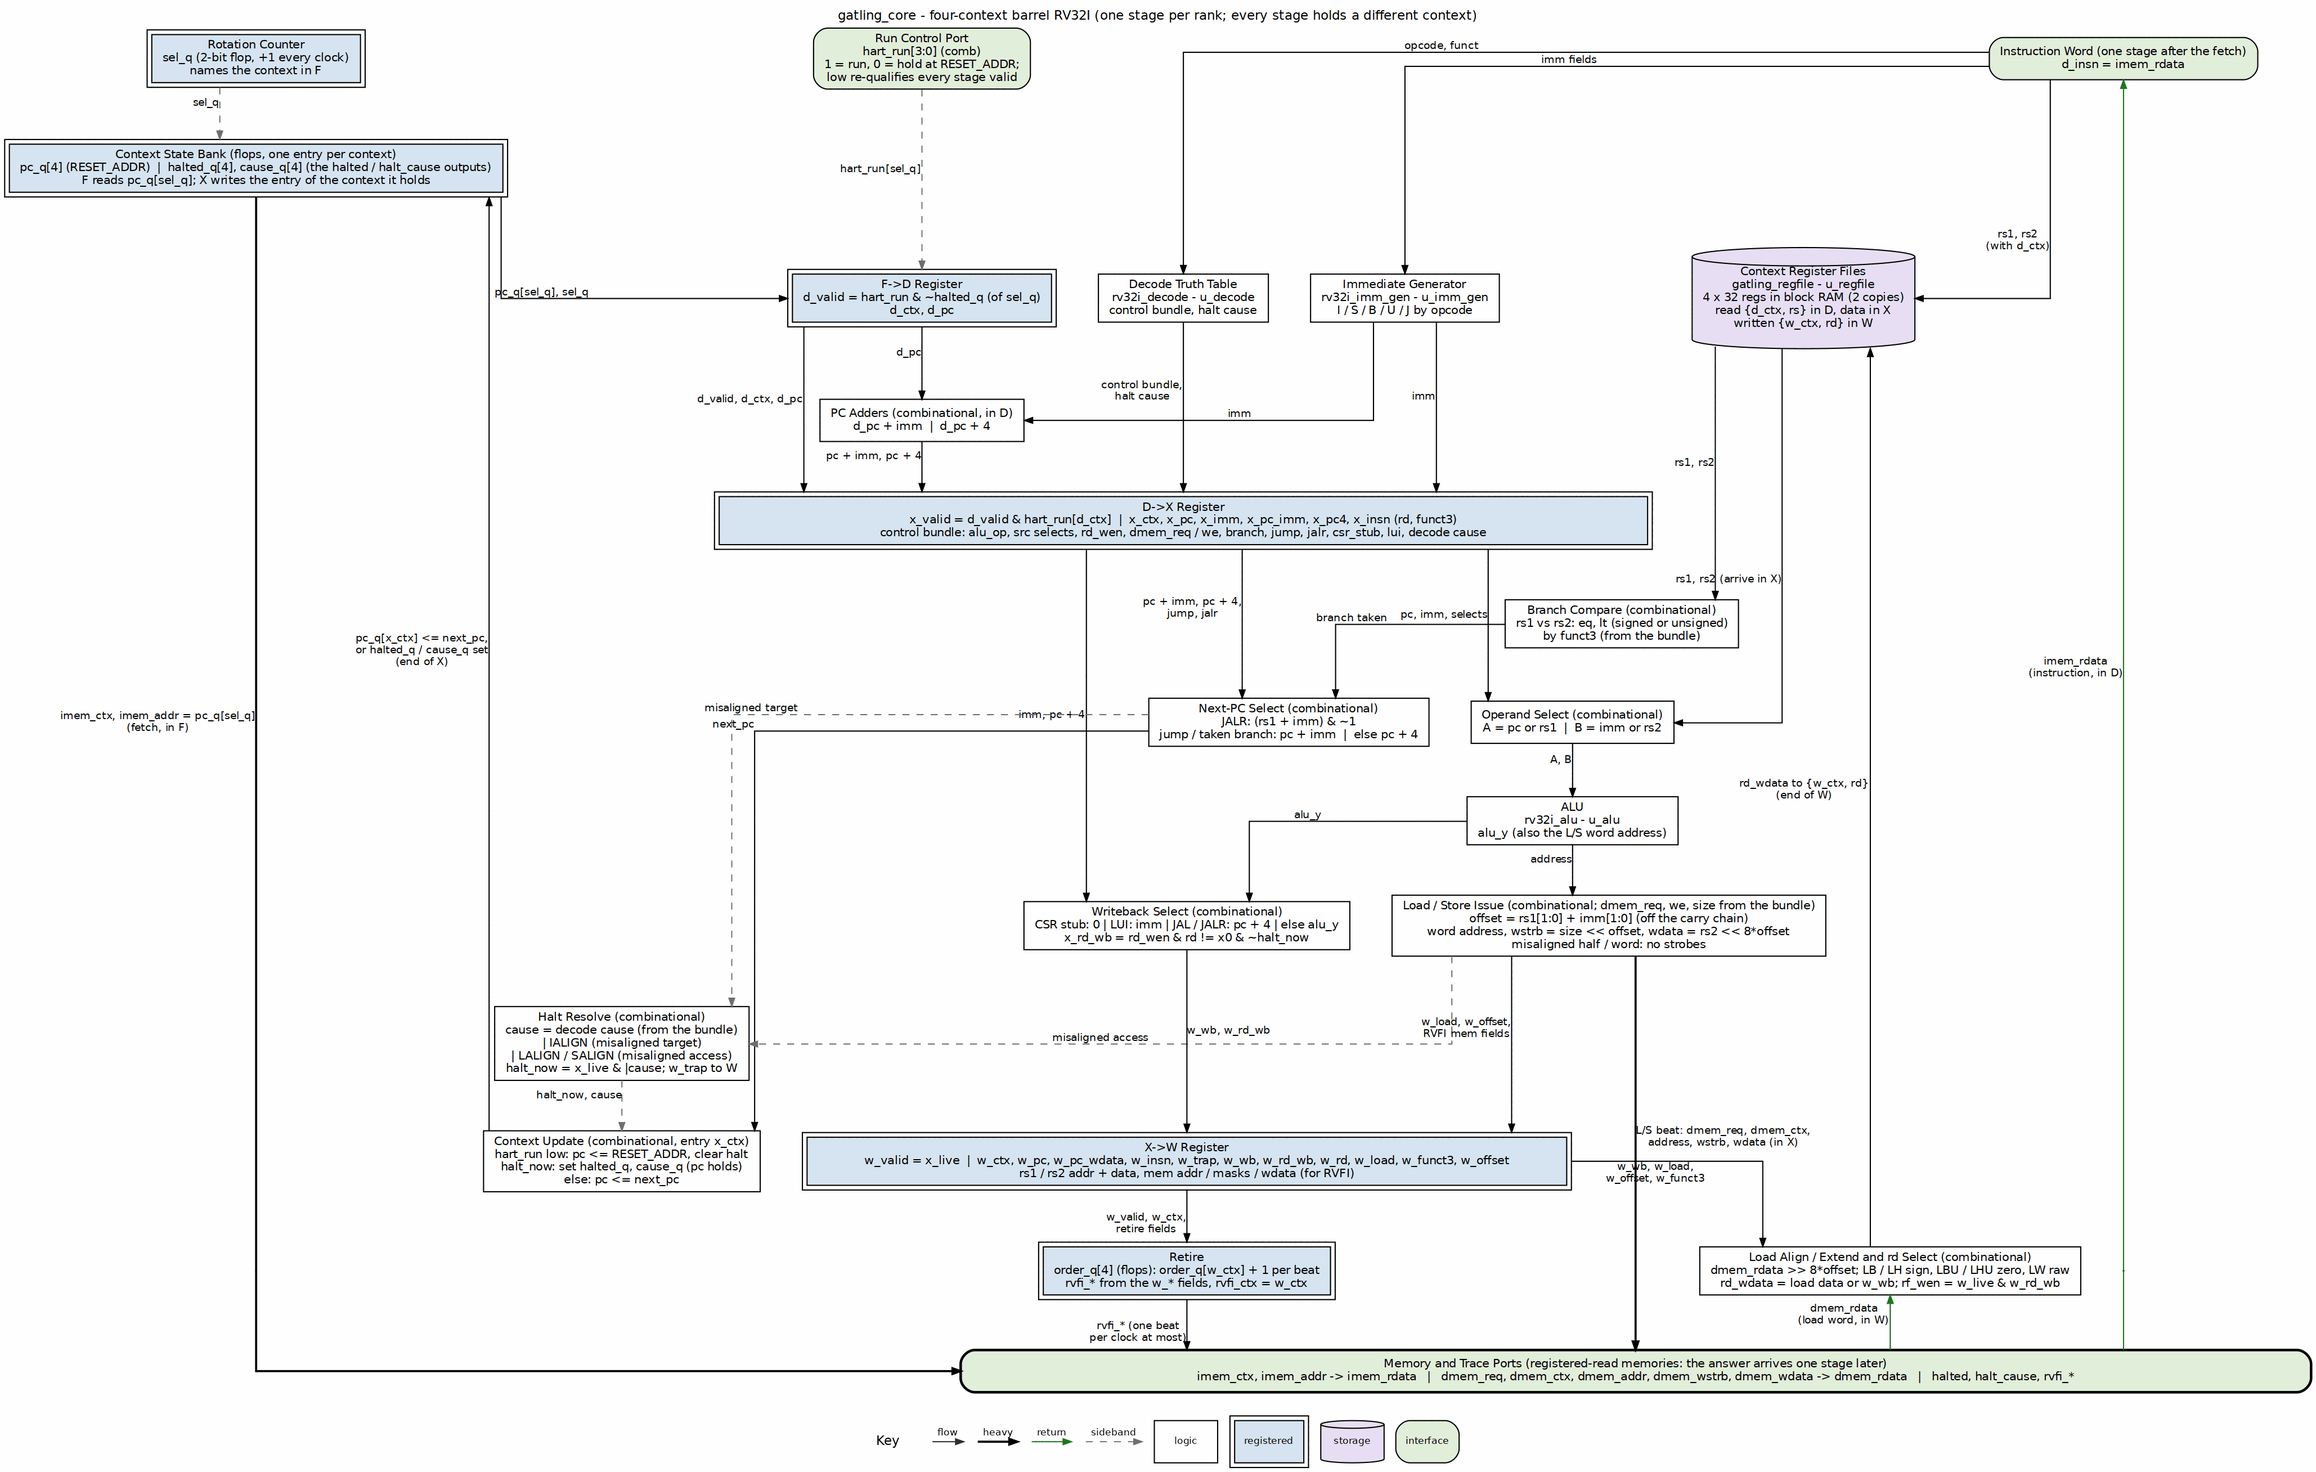
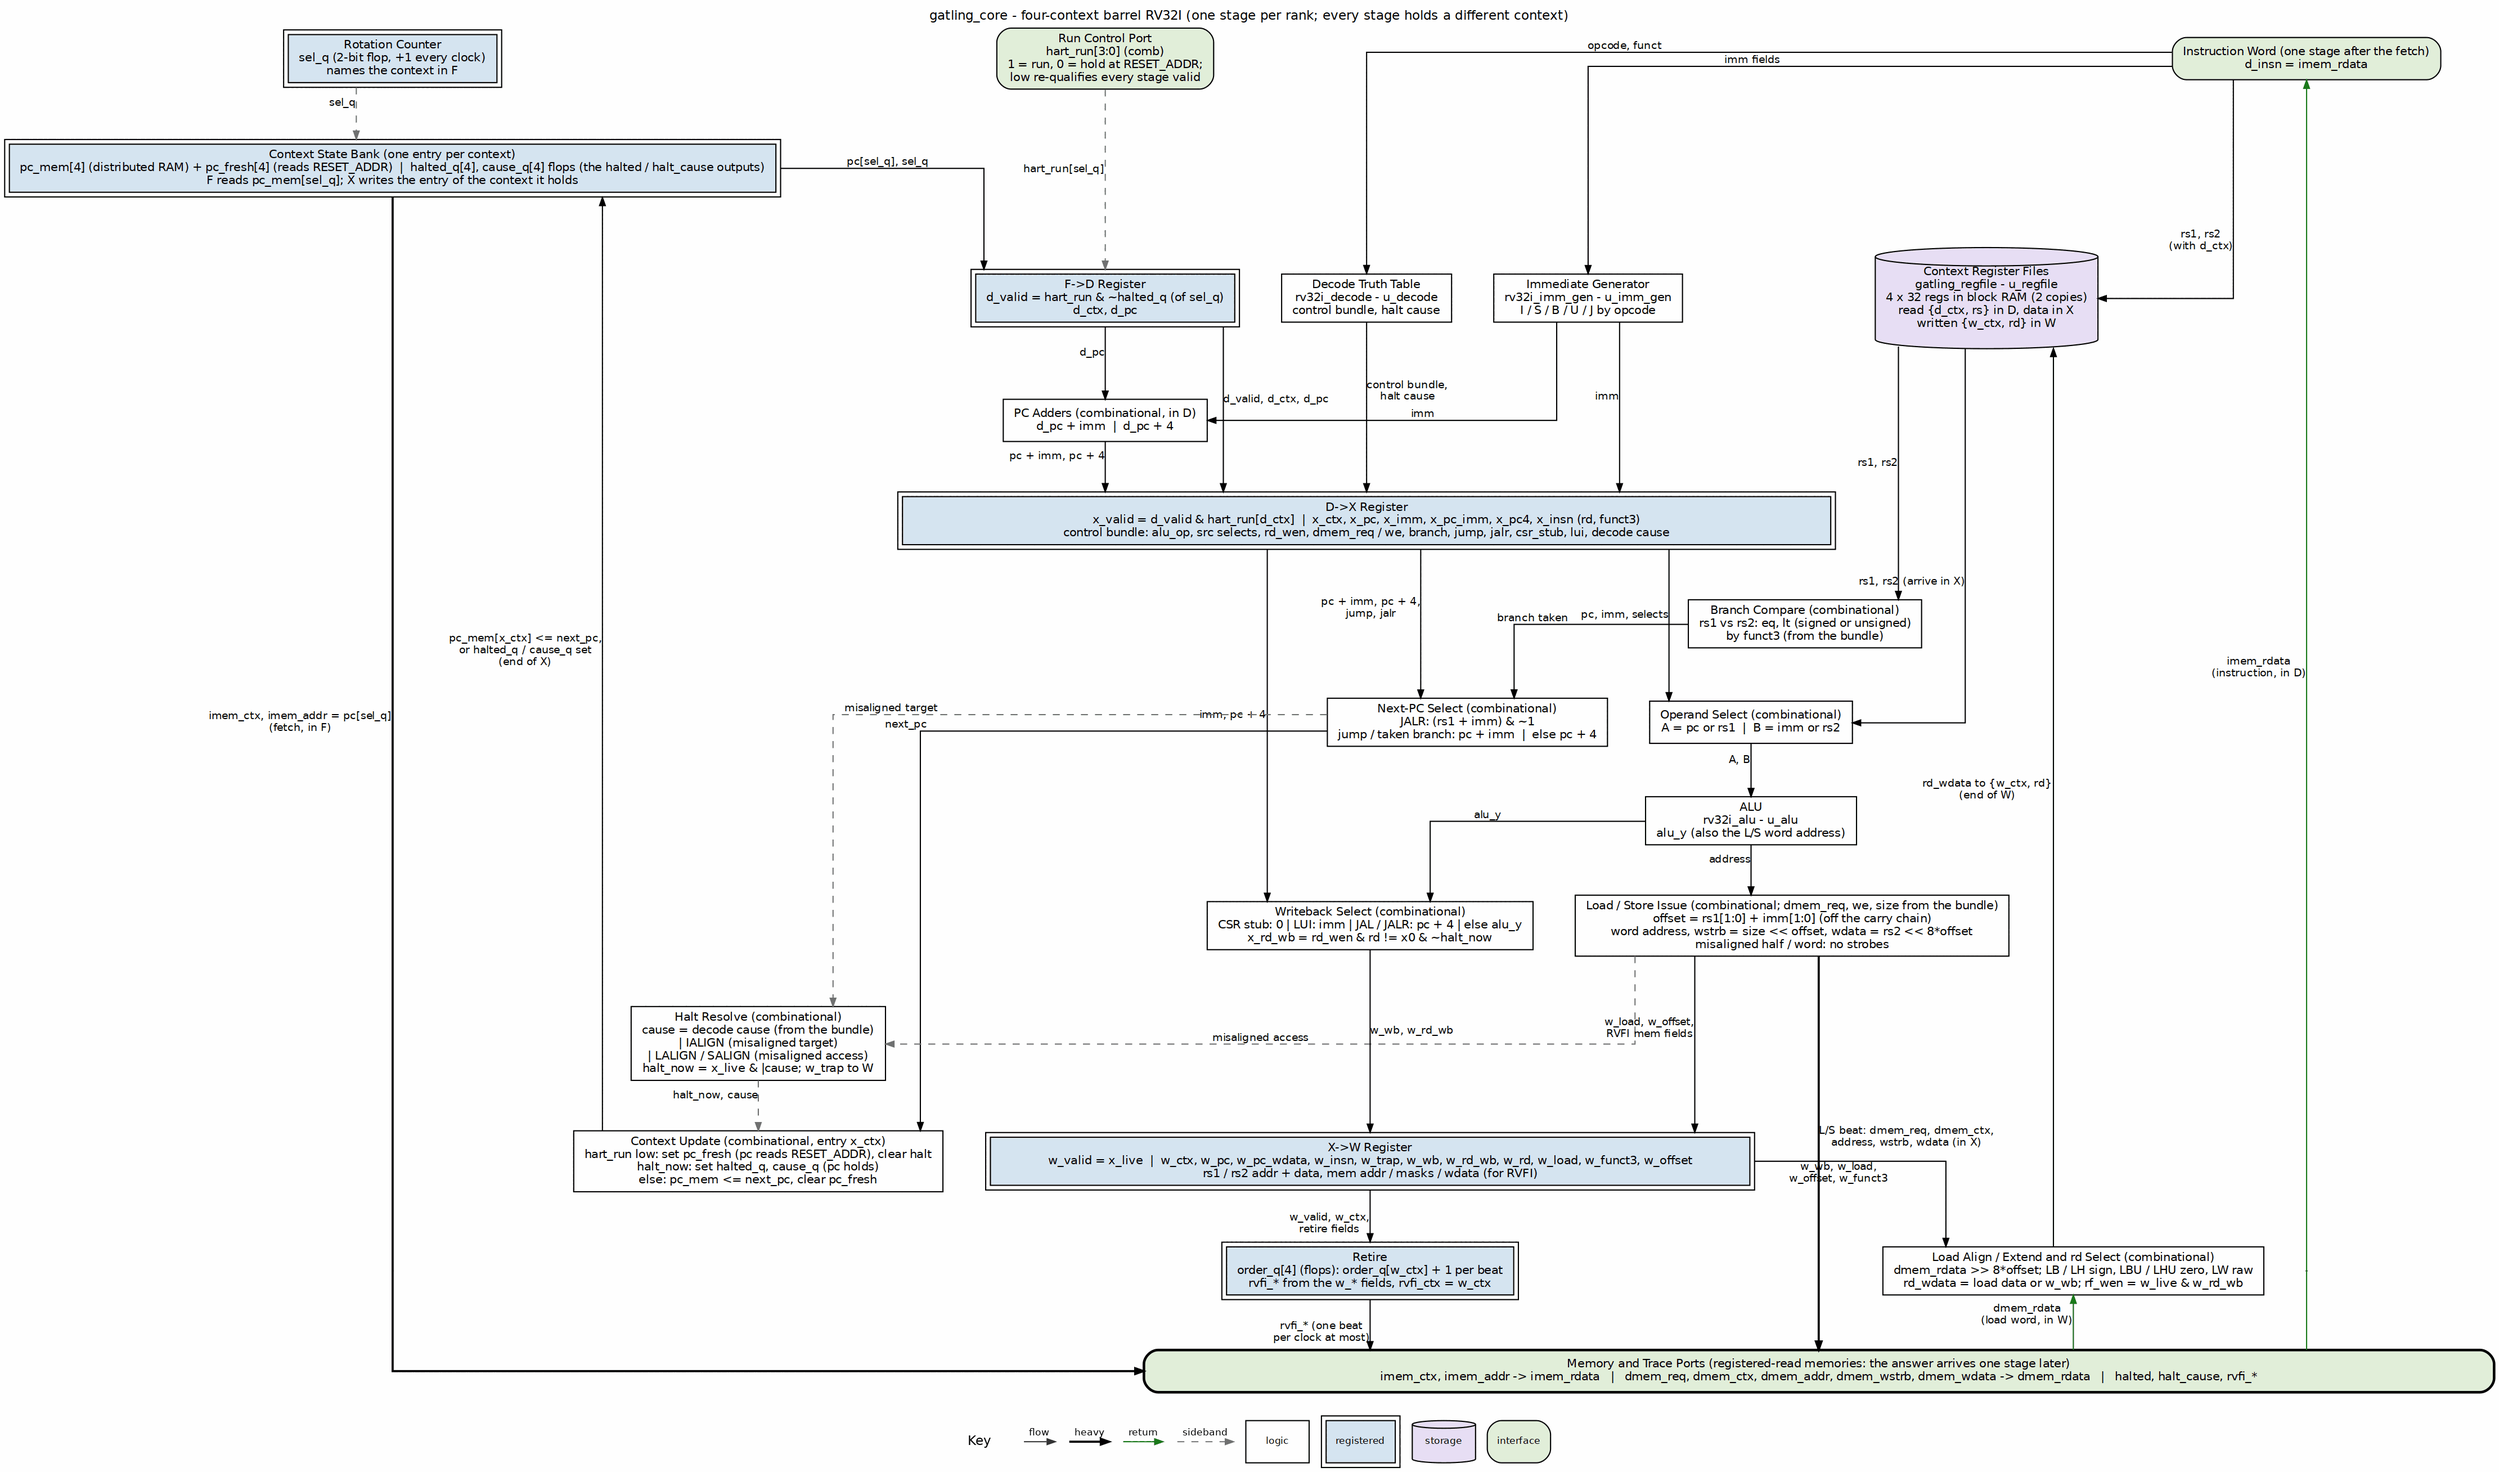
perf(riscv-ip): gatling keeps its per-context PC file in distributed RAM -- the 4 x 32 pc_q flop array (async reset, per-context loop write, mux read) becomes pc_mem, written in X at x_ctx and read in F at sel_q, with a 4-bit pc_fresh flag standing in for reset and the hart_run hold (reads RESET_ADD

diff --git a/projects/components/dma-ip/rapids/dv/tests/top_g/test_rapids_g_restart.py b/projects/components/dma-ip/rapids/dv/tests/top_g/test_rapids_g_restart.py
@@ -56,11 +56,20 @@ async def _pulse_and_trace(tb, dut):
     dut.seq_restart.value = 1
     await tb.wait_clocks(tb.clk_name, 1)
     dut.seq_restart.value = 0
+    # The PC file is a distributed RAM (common-rv32i ISSUE-001 row 4), so the
+    # per-hart PC vector is rebuilt from the fetch port: each cycle the
+    # context in F (sel_q) presents its PC on imem_addr.
     trace = []
+    pcs = {h: {} for h in ('src', 'snk')}
     for _ in range(TRACE):
         await tb.wait_clocks(tb.clk_name, 1)
-        trace.append(tuple((int(_gatling(dut, h).sel_q.value), int(_gatling(dut, h).pc_q.value))
-                           for h in ('src', 'snk')))
+        row = []
+        for h in ('src', 'snk'):
+            g = _gatling(dut, h)
+            sel = int(g.sel_q.value)
+            pcs[h][sel] = int(g.imem_addr.value)
+            row.append((sel, tuple(sorted(pcs[h].items()))))
+        trace.append(tuple(row))
     return trace
 
 

diff --git a/vault/tracking/projects/components/riscv-ip/gatling-rv32i/task/closed/TASK-004.md b/vault/tracking/projects/components/riscv-ip/gatling-rv32i/task/closed/TASK-004.md
@@ -1,0 +1,60 @@
+# TASK-004: FPGA rework -- the per-context PC file in distributed RAM
+
+**Priority:** P2
+**Status:** CLOSED (2026-11-19)
+**Owner:** Claude (owner, 2026-11-19: "do row 4")
+**From:** riscv-ip common-rv32i [ISSUE-001](../../../common-rv32i/issue/open/ISSUE-001.md) row 4
+
+## What landed
+
+1. **`pc_q[NUM_HARTS]` (128 async-reset flops, loop write, mux read) is now
+   `pc_mem[NUM_HARTS]`, a distributed RAM.** It has one write port (X, at
+   `x_ctx`) and one asynchronous read port (F, at `sel_q`). The rotation
+   keeps the two on different contexts.
+2. **`pc_fresh[c]` stands in for the reset that a RAM cannot have.**
+   - Reset sets it, and so does `hart_run[c]` low.
+   - The context's first PC write clears it.
+   - While it is set, F reads `RESET_ADDR`.
+   - A halt writes no PC and leaves the flag alone, so a context that halts
+     on its first instruction after release still reads that instruction's
+     address. That matches the old flop array cycle for cycle.
+3. **`halted_q` and `cause_q` stay flops.** The `halted` and `halt_cause`
+   ports present every context at once, which would need NUM_HARTS read
+   ports. The issue row's "cause / halt" part is closed on that reason:
+   it is 20 flops.
+4. **One test changed outside the area.**
+   `dma-ip/rapids/dv/tests/top_g/test_rapids_g_restart.py` probed `pc_q`
+   to compare the harts' timing after two restarts. It now rebuilds the
+   per-hart PC vector from the fetch port (`sel_q`, `imem_addr`), which
+   carries the same information one stage later.
+5. **The gatling MAS** (ch02 core chapter, the datapath and rotation-grid
+   diagrams, re-rendered) names the PC file and the flag.
+
+## Gates
+
+- gatling suite: `make clean-all && make run-all-full-parallel`, 42/42.
+- riscv-formal gatling: 42/42. The RAM starts unconstrained in formal; `pc_fresh` masks it until the first write.
+- rapids `fub_g macro_g top_g` (the gatling sequencer and the restart
+  test), `make clean-all && make run-all-full-parallel AREAS="fub_g macro_g
+  top_g"`: 192 + 270 + 183 passed, all three restart cells included.
+
+## Result
+
+Routed OOC, xc7a100t-1, 10 ns. One synthesis, three placer directives.
+The base is HEAD 8e14d4198 (row 1 in).
+
+| gatling_core | Slice LUT (of which LUTRAM) | FF (FDCE) | WNS Default / ExtraNetDelay_high / SpreadLogic_high |
+|---|---|---|---|
+| before | 1,308 (0) | 894 (409) | +0.190 / +0.470 / +0.196 |
+| after | 1,200 (22) | 772 (281) | +0.424 / +0.506 / +0.660 |
+
+- **Area:** 130 fewer logic LUTs, offset by 22 LUTRAM (34 RAMD32 + 10
+  RAMS32), and 122 fewer flops. The issue estimated about 11 LUTRAM. Vivado
+  builds the 4 x 32 RAM from RAM32M-class primitives, two bits per site
+  pair, hence 22.
+- **Timing:** the worst case moves from +0.190 to +0.424. The critical cone
+  is the same before and after: register file read -> branch compare /
+  misaligned target -> `halt_now` -> the context-state write enables. What
+  changed is the end of the cone. Before, it was the per-context clock
+  enables of 128 PC flops (`pc_q_reg[1][17]/CE`). Now it is the RAM's
+  write enable (`pc_mem_reg_*/RAMA/WE`) or a `cause_q` enable.

diff --git a/vault/tracking/projects/components/riscv-ip/common-rv32i/issue/open/ISSUE-001.md b/vault/tracking/projects/components/riscv-ip/common-rv32i/issue/open/ISSUE-001.md
@@ -29,7 +29,7 @@ reproducing script.
 | 1 | common-rv32i | ALU builds three barrel shifters and a second 33-bit compare | variant measured: -306 / -205 / -231 LUT (kestrel / merlin / gatling), kestrel WNS +0.85 ns; 2,001,280-vector equivalence, 0 mismatches | done: common-rv32i [TASK-001](../../task/closed/TASK-001.md), suites + riscv-formal green |
 | 2 | merlin | pipeline registers reset and flush the whole payload | FDCE 811 -> 134; x0-init and load-use reads fixed; suite 54/54, riscv-formal 42/42 | done: merlin-rv32i [TASK-003](../../../merlin-rv32i/task/closed/TASK-003.md) |
 | 3 | merlin | forwarding compare -> branch -> redirect / flush fan-out is the critical path (11-15 levels) | (a) done with row 2 in merlin-rv32i TASK-003: 1,378 -> 1,262 LUT, WNS over 3 placer directives -0.216..+0.227 -> +0.065..+0.241; path now load data -> forward -> branch | (a) done; (b) register the redirect = owner decision |
-| 4 | gatling | per-context PC / cause / halt in async-reset flops with loop write and mux read | estimated 128 FF + mux -> ~11 LUTRAM; not measured | open |
+| 4 | gatling | per-context PC / cause / halt in async-reset flops with loop write and mux read | PC file -> 22 LUTRAM: 1,308 -> 1,200 LUT, 894 -> 772 FF, WNS over 3 placer directives +0.190..+0.470 -> +0.424..+0.660; cause / halt stay flops (the ports show every context at once) | done: gatling-rv32i [TASK-004](../../../gatling-rv32i/task/closed/TASK-004.md) |
 | 5 | all | RVFI-only state (gatling order_q 256 FF, merlin ~256 carried FF, kestrel retire_count) | trimmed on the board; costs only where RVFI is consumed | no-action |
 | 6 | kestrel/gatling mem | gaxi_skid_buffer W channel 2-4 LUT per flop | shared rtl/amba IP; memory systems have 3-3.7 ns slack | no-action here |
 | 7 | kestrel | board runs 75 MHz (single-cycle by design) | row 1 may lift it; needs a board build | open, after row 1 |

diff --git a/projects/components/riscv-ip/gatling-rv32i/docs/gatling_mas/ch02_blocks/01_gatling_core.md b/projects/components/riscv-ip/gatling-rv32i/docs/gatling_mas/ch02_blocks/01_gatling_core.md
@@ -60,7 +60,9 @@ PC+imm and PC+4 are formed in D because both operands are known there, which kee
 
 ## Per-context state
 
-`pc_q[c]`, `halted_q[c]`, `cause_q[c]` and `order_q[c]` are the only per-context state besides the register file. `hart_run[c]` low wins every update: the PC returns to RESET_ADDR and the halt and order clear. Otherwise the X stage updates the context it holds -- its PC to the next PC, or, if the instruction halts, its halt bit and cause (the PC is not advanced, as kestrel).
+The PC file `pc_mem[c]`, with its flag `pc_fresh[c]`, and `halted_q[c]`, `cause_q[c]` and `order_q[c]` are the only per-context state besides the register file. `hart_run[c]` low wins every update: the PC returns to RESET_ADDR and the halt and order clear. Otherwise the X stage updates the context it holds -- its PC to the next PC, or, if the instruction halts, its halt bit and cause (the PC is not advanced, as kestrel).
+
+The PC file is a NUM_HARTS x 32 distributed RAM: X writes it at `x_ctx` and F reads it asynchronously at `sel_q`. The rotation keeps those on different contexts. A RAM has no reset, so `pc_fresh[c]` does that job. Reset sets it, and so does `hart_run[c]` low. The context's first PC write clears it, and while it is set F reads RESET_ADDR. A halt writes no PC and leaves the flag alone, so a context that halts on its first instruction still shows that instruction's address. `halted_q` and `cause_q` stay flops because the `halted` and `halt_cause` ports present every context at once.
 
 Validity is carried per stage (`d_valid`, `x_valid`, `w_valid`) and re-qualified by `hart_run` of the stage's context at every stage, so stopping a context kills its in-flight instruction in whichever stage holds it: no store, no PC update, no register write, no retirement.
 

diff --git a/vault/tracking/projects/components/riscv-ip/common-rv32i/assets/issue001_fpga_uarch/00_FPGA_UARCH_REVIEW.md b/vault/tracking/projects/components/riscv-ip/common-rv32i/assets/issue001_fpga_uarch/00_FPGA_UARCH_REVIEW.md
@@ -238,6 +238,25 @@ the mux.
 Not built or measured. The current worst path, regfile BRAM -> ALU / next PC ->
 halt decision -> `pc_q` clock enable, would end at the LUTRAM write instead.
 
+**Addendum (2026-11-19, gatling-rv32i TASK-004): built and measured as
+described.**
+- The held bit is `pc_fresh`. A halt leaves it alone, so a context that
+  halts on its first instruction still reads that instruction's address,
+  as the flops did.
+- `cause_q` and `halted_q` stay flops. The `halted` and `halt_cause` ports
+  present every context at once.
+- Routed, three placer directives, base 8e14d4198:
+
+| gatling_core | LUT (LUTRAM) | FF (FDCE) | WNS Default / ExtraNetDelay_high / SpreadLogic_high |
+|---|---|---|---|
+| before | 1,308 (0) | 894 (409) | +0.190 / +0.470 / +0.196 |
+| after | 1,200 (22) | 772 (281) | +0.424 / +0.506 / +0.660 |
+
+- The LUTRAM count is 22, not 11: Vivado builds the 4 x 32 RAM as 34 RAMD32
+  and 10 RAMS32.
+- The worst path ends where predicted, at the RAM write enable or a
+  `cause_q` enable.
+
 ### 5. RVFI-only state
 
 | Core | State that exists only for RVFI |

diff --git a/vault/tracking/projects/components/riscv-ip/gatling-rv32i/INDEX.md b/vault/tracking/projects/components/riscv-ip/gatling-rv32i/INDEX.md
@@ -19,4 +19,5 @@ Tetrad compute engine (barrel RV32I + Xcell), one engine per tetrad,
 
 | Task | Summary |
 |---|---|
+| [TASK-004](task/closed/TASK-004.md) | FPGA rework: the per-context PC file in distributed RAM (common-rv32i ISSUE-001 row 4); 1,308 -> 1,200 LUT, 894 -> 772 FF, WNS +0.190..+0.470 -> +0.424..+0.660 over 3 placer directives |
 | [TASK-001](task/closed/TASK-001.md) | Tetrad compute FSM: kestrel-evaluation answered by gatling; PRD §7 decisions all settled (2026-10-21: implicit context, separate program regions, context-lock) |
